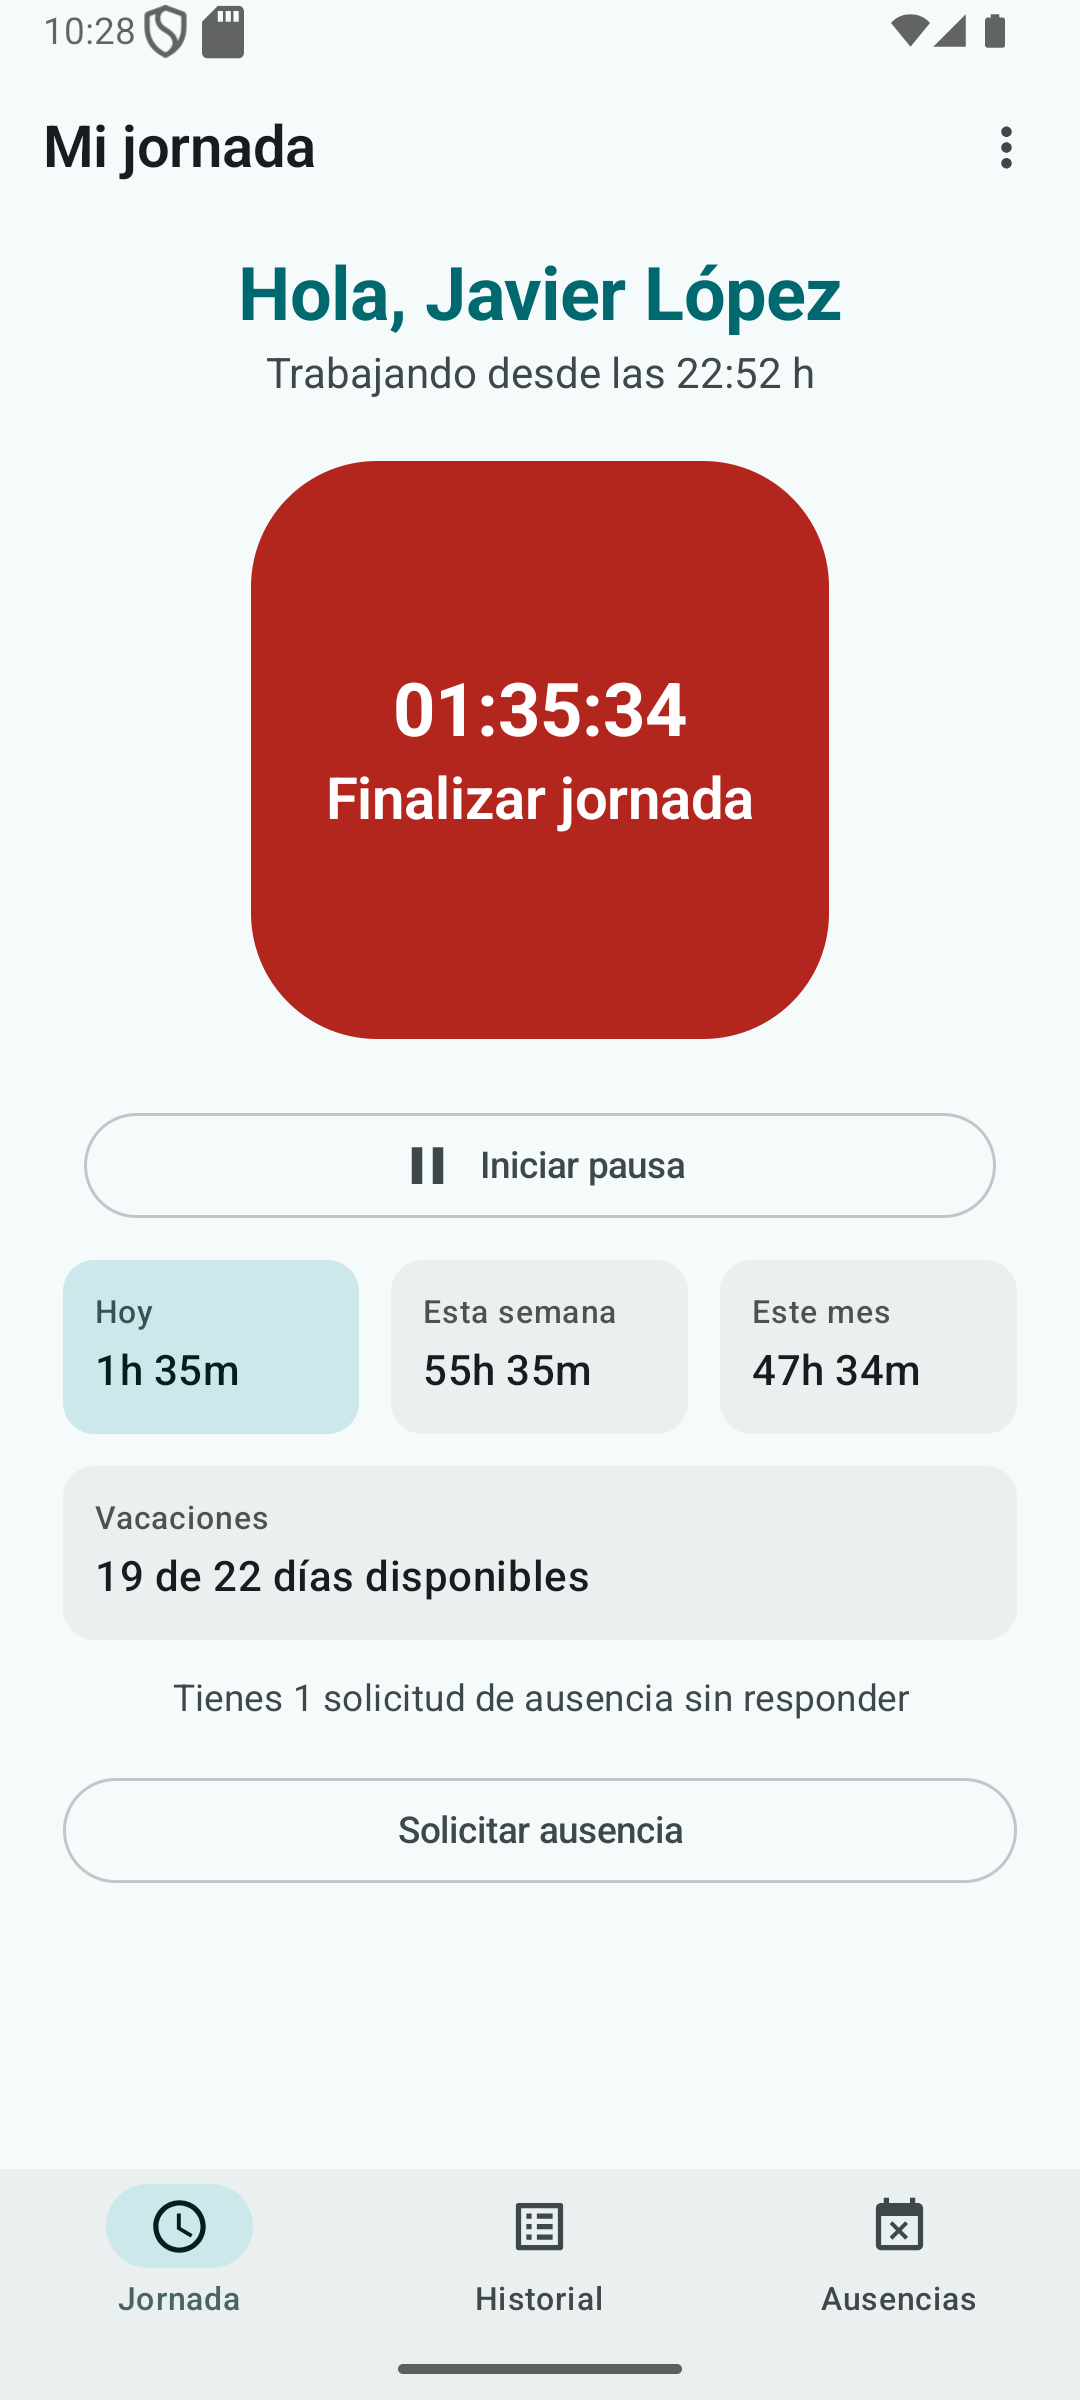
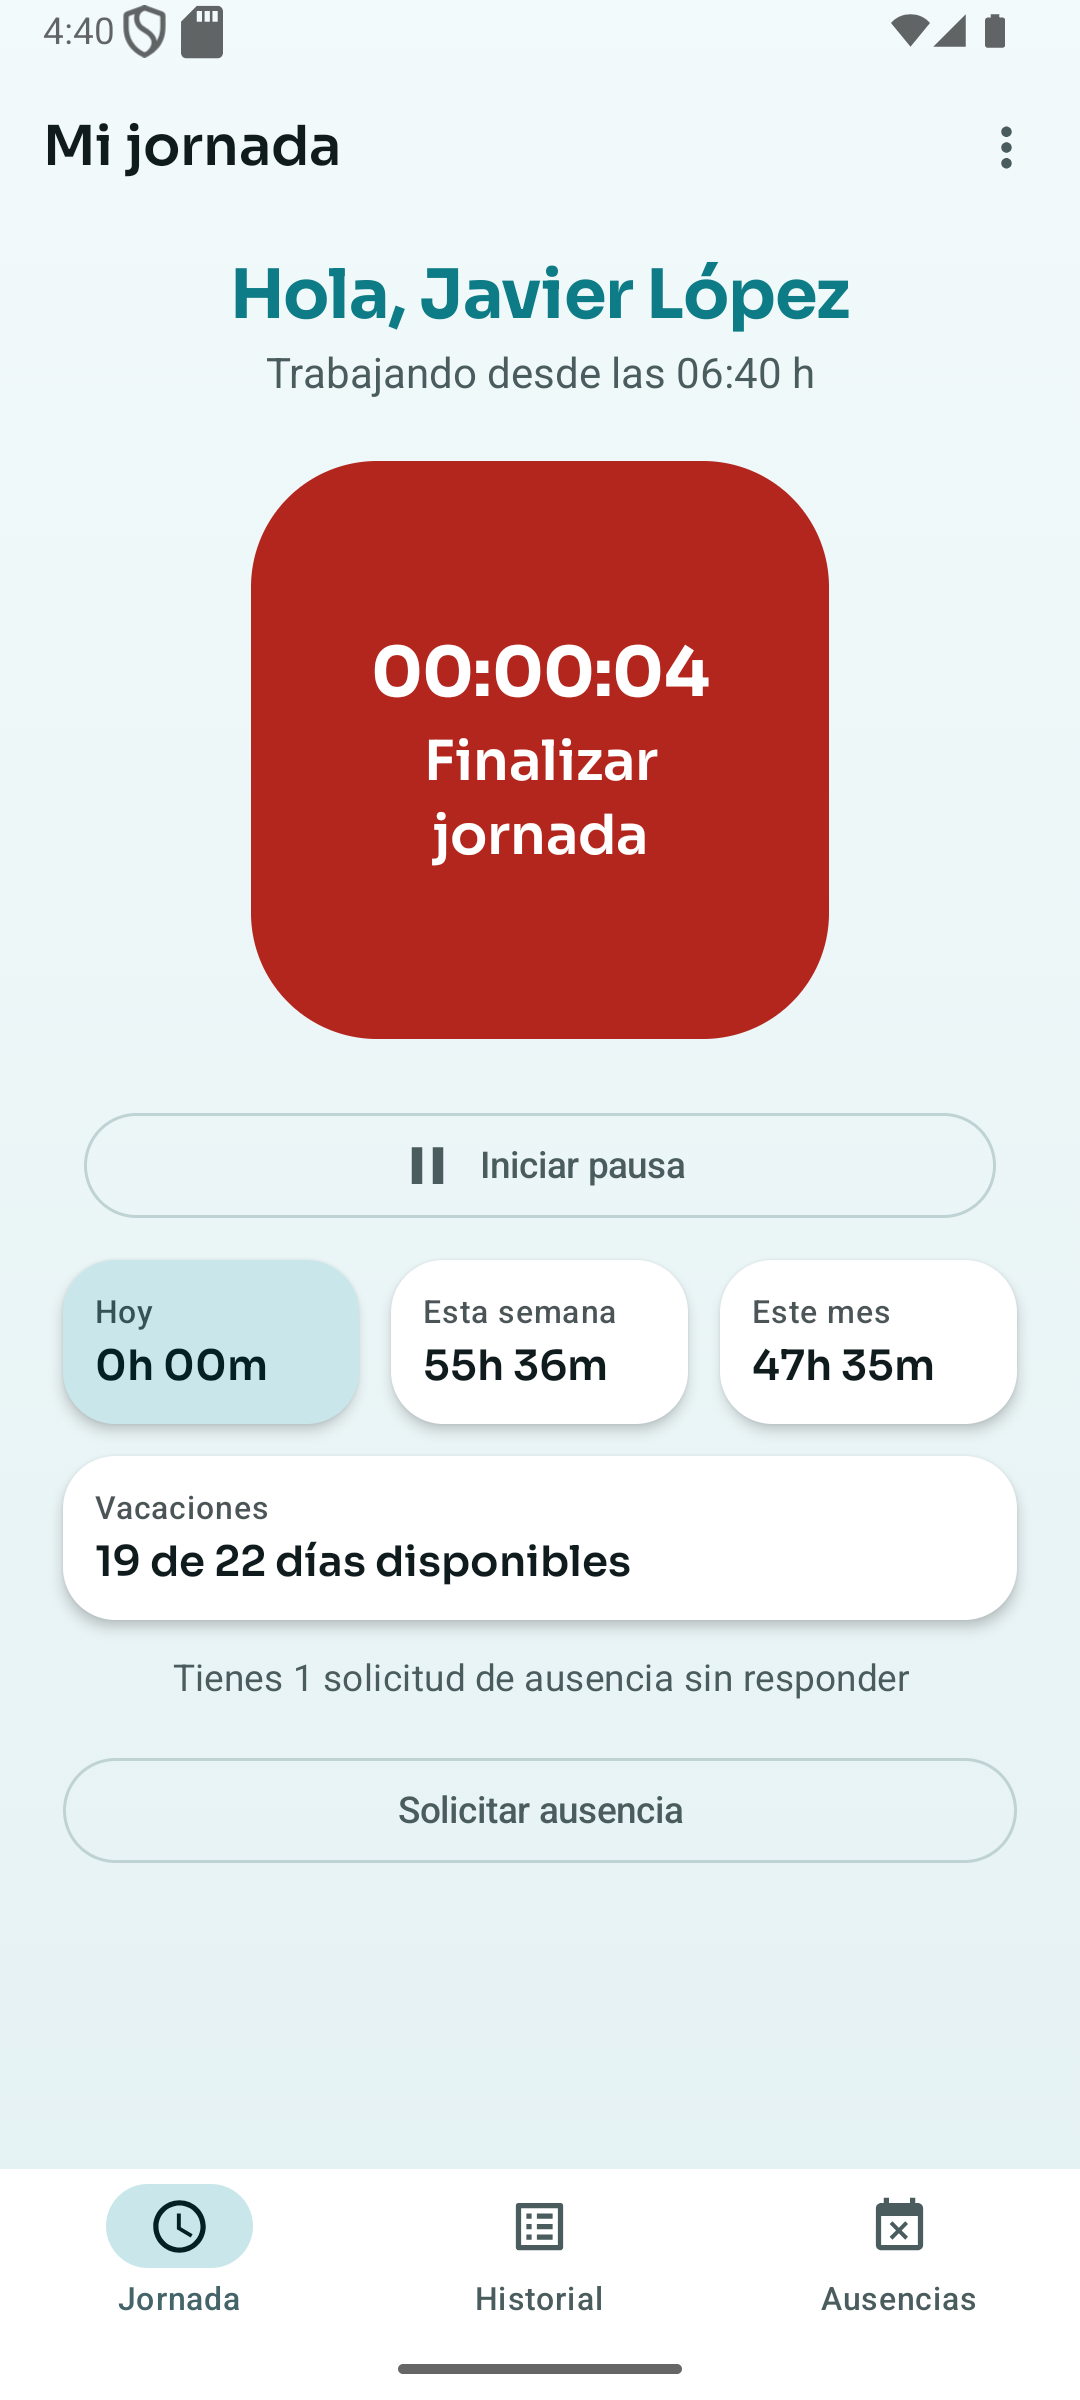
docs: rehacer las capturas con la línea visual "Fichaje"
Las 27 capturas reproducibles enseñaban el diseño anterior. Se rehacen
todas recorriendo la app con los cuatro usuarios de demo, contra el
backend local.

`13-calendario-antes-en-ingles.png` no se rehace: documenta un defecto ya
corregido y no se puede volver a reproducir.

La primera toma de la de tablet salió en la pantalla de carga -- a
2560x1600 el arranque tarda más -- y hubo que repetirla esperando a que la
barra estuviera montada.

diff --git a/docs/capturas/README.md b/docs/capturas/README.md
@@ -1,7 +1,12 @@
 # Capturas de la app Android
 
-Rehechas el **03/09/2026**, tras el rediseño a Material 3 Expressive. Emulador
+Rehechas el **04/09/2026**, tras aplicar la línea visual "Fichaje". Emulador
 `Medium_Phone_API_35` (Android 15) contra el backend local con el perfil `demo`.
+
+La dirección se apoya en cuatro cosas que el proyecto no estaba usando: una
+escala de **formas** propia (`Theme.kt` nunca pasaba un `Shapes()`), **Sora** en
+titulares y cifras, un **fondo con degradado** pintado una sola vez detrás de
+todo, y un **índigo** reservado a la zona de gestión.
 
 Son capturas reales de la aplicación hablando con la API, no maquetas: los datos
 que se ven salen de los usuarios y fichajes que siembra `DemoDataSeeder`.
@@ -65,4 +70,4 @@ Lo que exige `empleado:gestionar`, `informe:exportar`, `fichaje:corregir` y
 ---
 
 `13-calendario-antes-en-ingles.png` **no se ha rehecho**: documenta un defecto ya
-corregido y no se puede volver a reproducir. Las 27 restantes son del 03/09/2026.
+corregido y no se puede volver a reproducir. Las 27 restantes son del 04/09/2026.

diff --git a/README.md b/README.md
@@ -107,7 +107,8 @@ con estas credenciales puede modificarlos.
 ## Capturas
 
 La app Android, en Jetpack Compose con Material 3 Expressive, hablando con esta
-misma API:
+misma API. Formas propias, **Sora** en titulares y cifras, fondo con degradado y
+tarjetas que flotan sobre él:
 
 | Mi jornada | Panel de empresa | Traza de auditoría |
 |---|---|---|
@@ -139,7 +140,7 @@ siembra `DemoDataSeeder`.
 | Caché | Caffeine |
 | Tests | JUnit 5 · Mockito · AssertJ · MockMvc · JaCoCo |
 | Build | Gradle (Kotlin DSL), monorepo de dos módulos |
-| App móvil | Kotlin 2.2 · Jetpack Compose (Material 3 **Expressive**) · MVVM con `StateFlow` · navigation-compose · `NavigationSuiteScaffold` (barra en móvil, raíl en tablet) · Retrofit |
+| App móvil | Kotlin 2.2 · Jetpack Compose (Material 3 **Expressive**) · MVVM con `StateFlow` · navigation-compose · `NavigationSuiteScaffold` (barra en móvil, raíl en tablet) · tema propio de color, formas y tipografía · Retrofit |
 | Infra | Docker multi-stage · GitHub Actions · Render + Neon |
 
 ---
